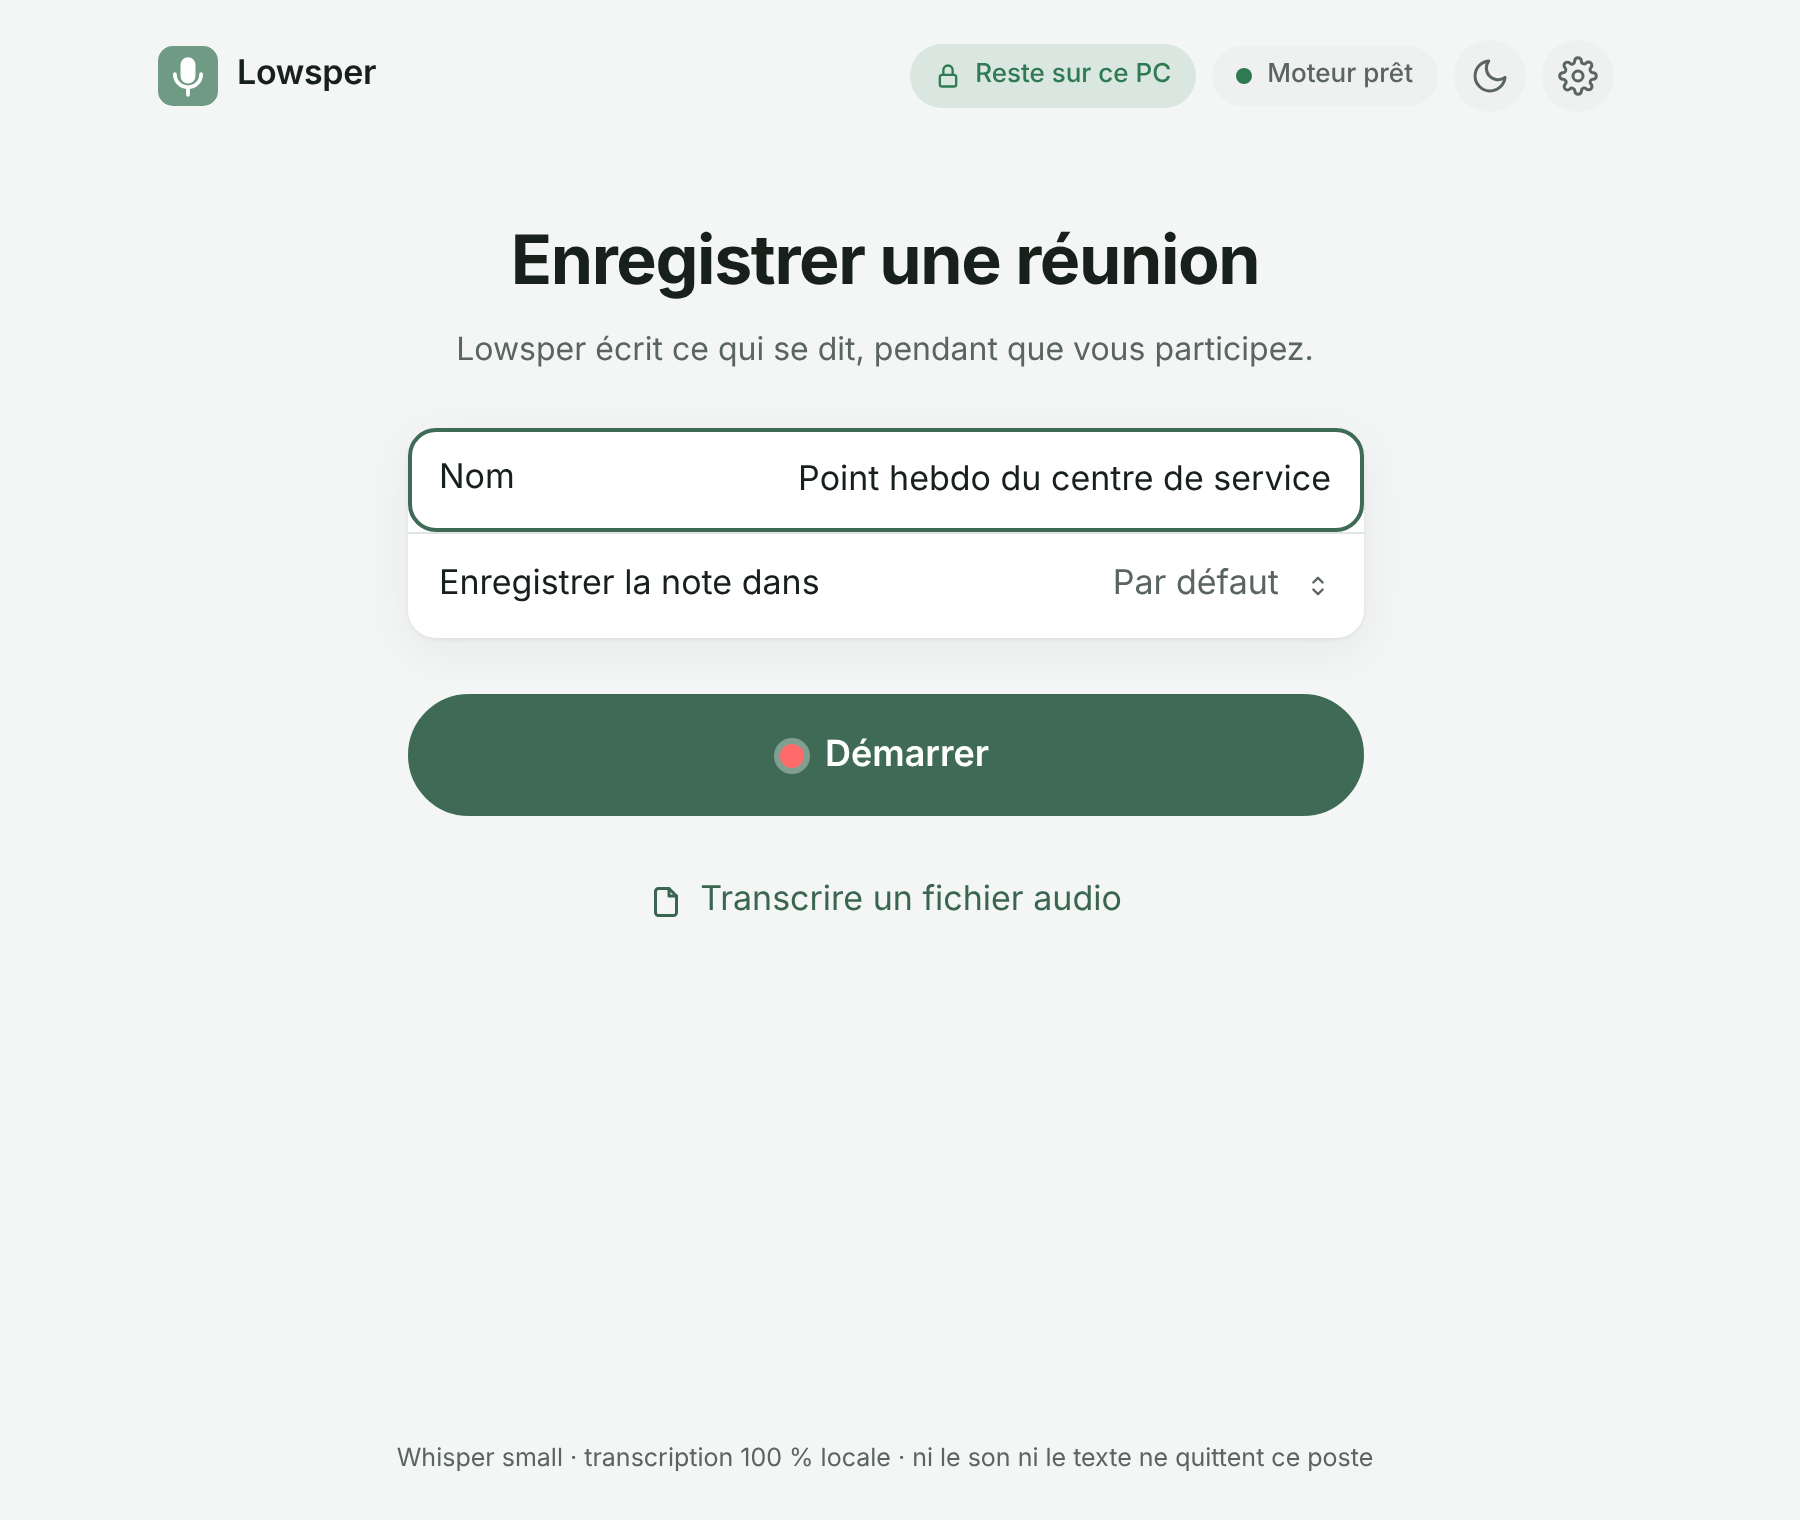
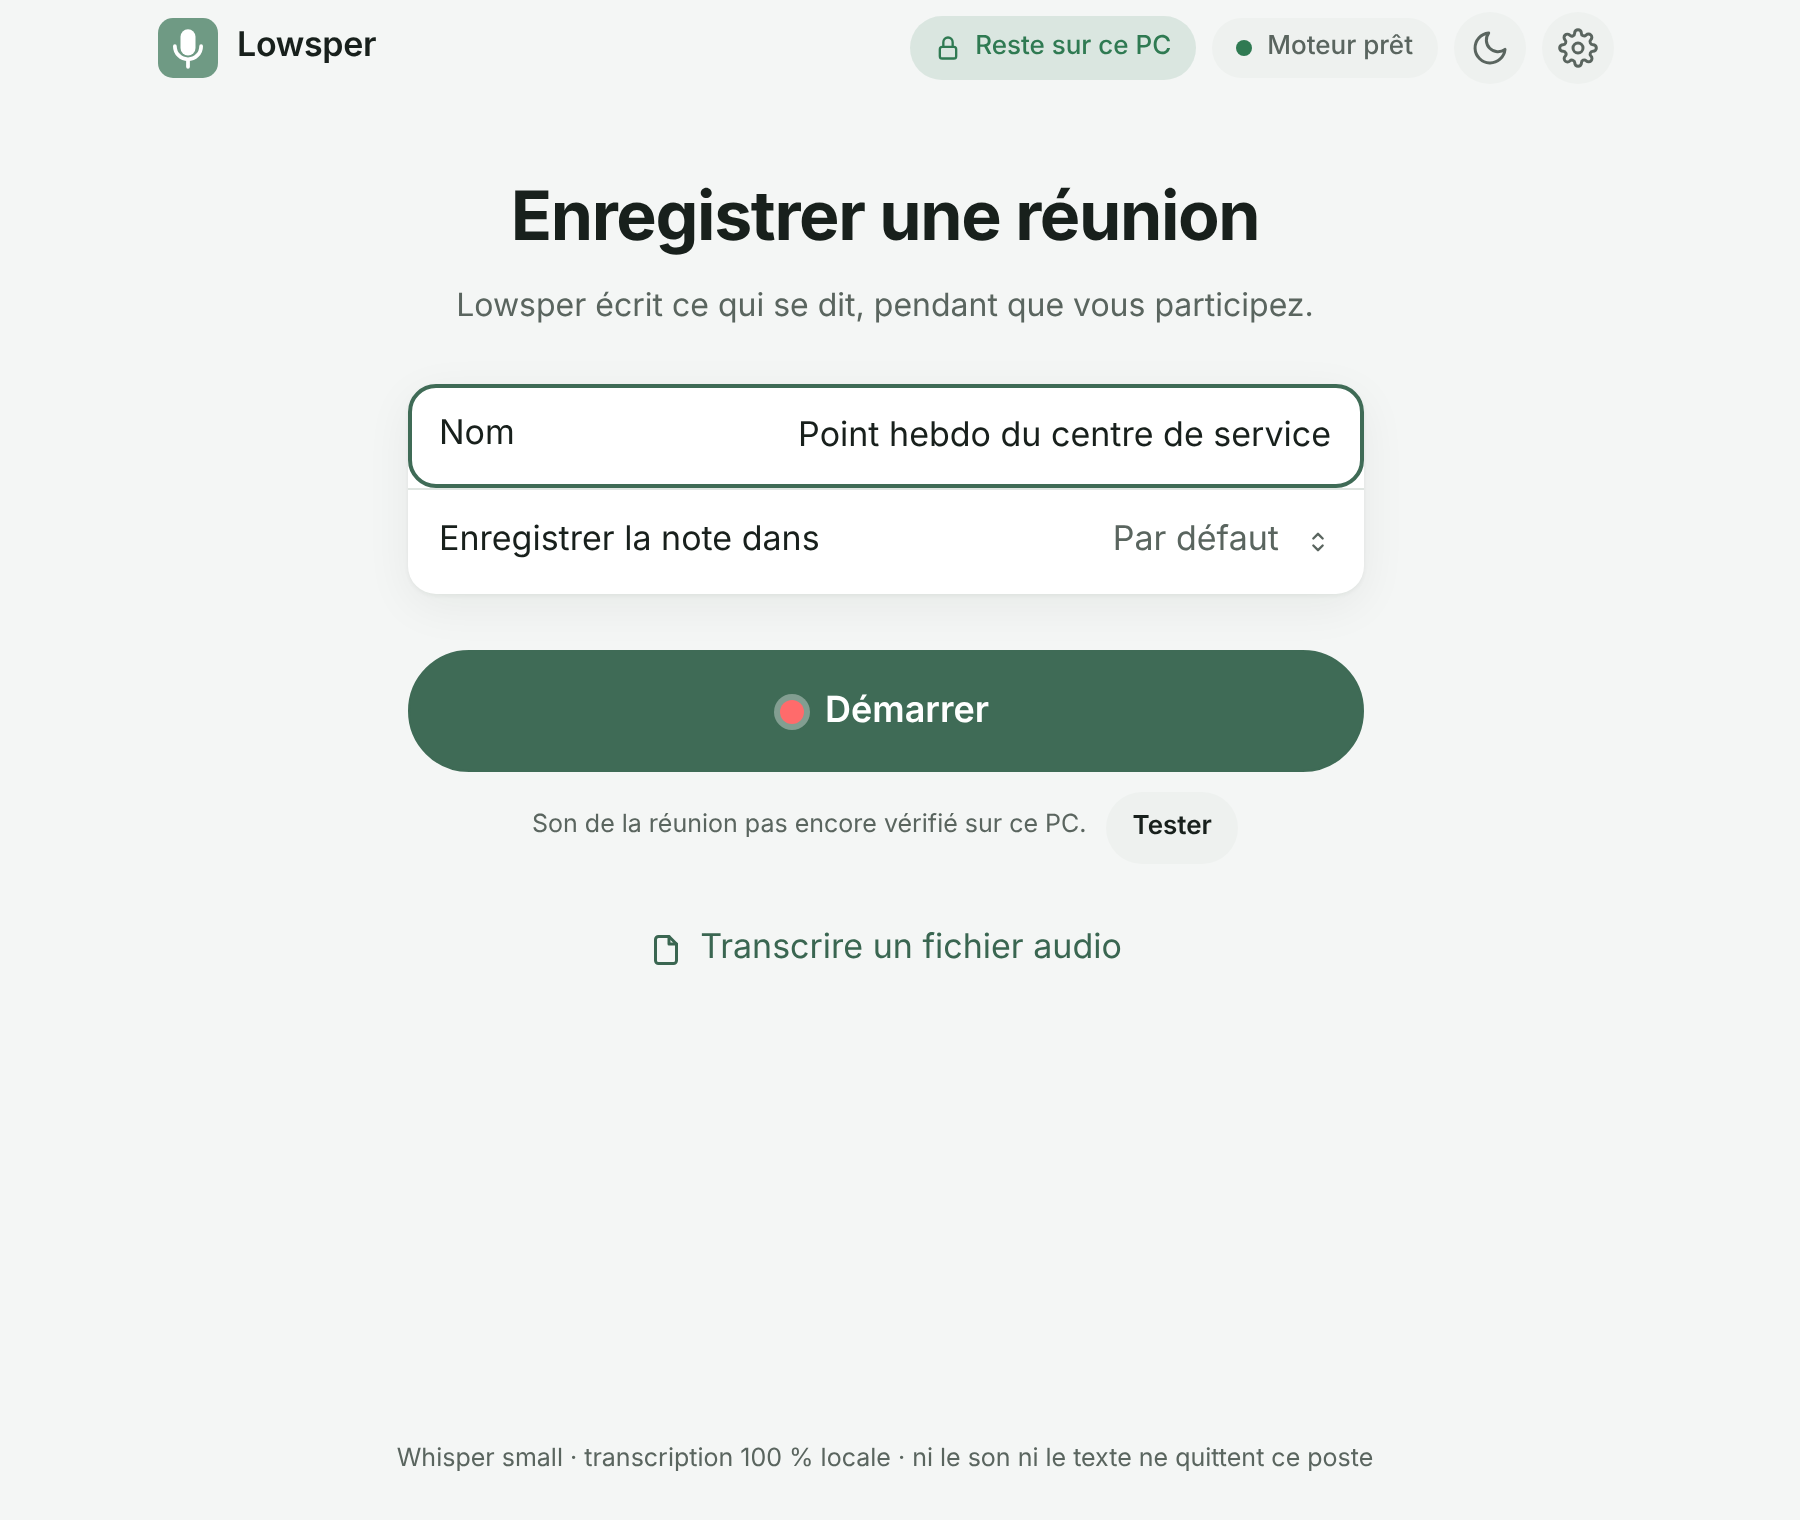
docs(son): captures régénérées (test du son), échec intermittent du test consigné (§56)
Claude-Session: https://claude.ai/code/session_01G6rbDCT6L98C3cYG5ybsi7

diff --git a/decision.md b/decision.md
@@ -3569,3 +3569,13 @@ applications attesté par un son d'une autre application, `apps` retenu). Captur
 **Limites.** Le signal s'entend (trois bips courts, pendant le test seulement). Un test réussi sur
 le son de toutes les applications ne couvre pas une visio dans le navigateur de Lowsper : elle
 s'ajoute pendant la réunion (« Ajouter un onglet », §52). Non vérifié sous Windows.
+
+**Échec intermittent non expliqué** (`test/e2e-share.mjs`, local seulement, la CI ne le lance
+pas). Pendant ce lot, 3 échecs sur 21 passages, chaque fois au premier passage d'une série, à la
+même étape : après « Terminer » et le rechargement de la page, la réunion suivante demande le son
+du système au lieu du chemin retenu (scénario 1 deux fois, scénario 8 une fois). Mesuré : le
+réglage `lowsper.share.surface` vaut bien `apps` avant l'arrêt, avant et après le rechargement
+(6 passages réduits sur 6) ; il est lu directement dans le stockage du navigateur. Cause non
+trouvée ; non établi si le défaut existait avant le §55. Choix du mainteneur : le test garde un
+diagnostic qui note chaque écriture du réglage, avec son origine, et l'affiche avec l'état de la
+page en cas d'échec ; la prochaine occurrence dira qui écrit quoi.
